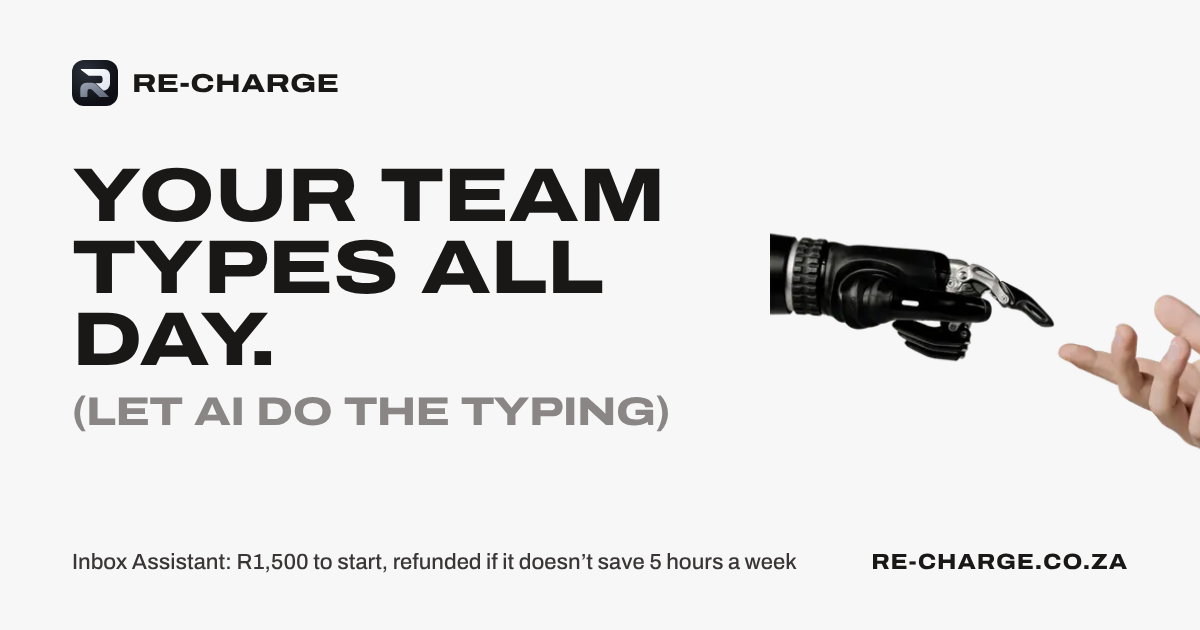
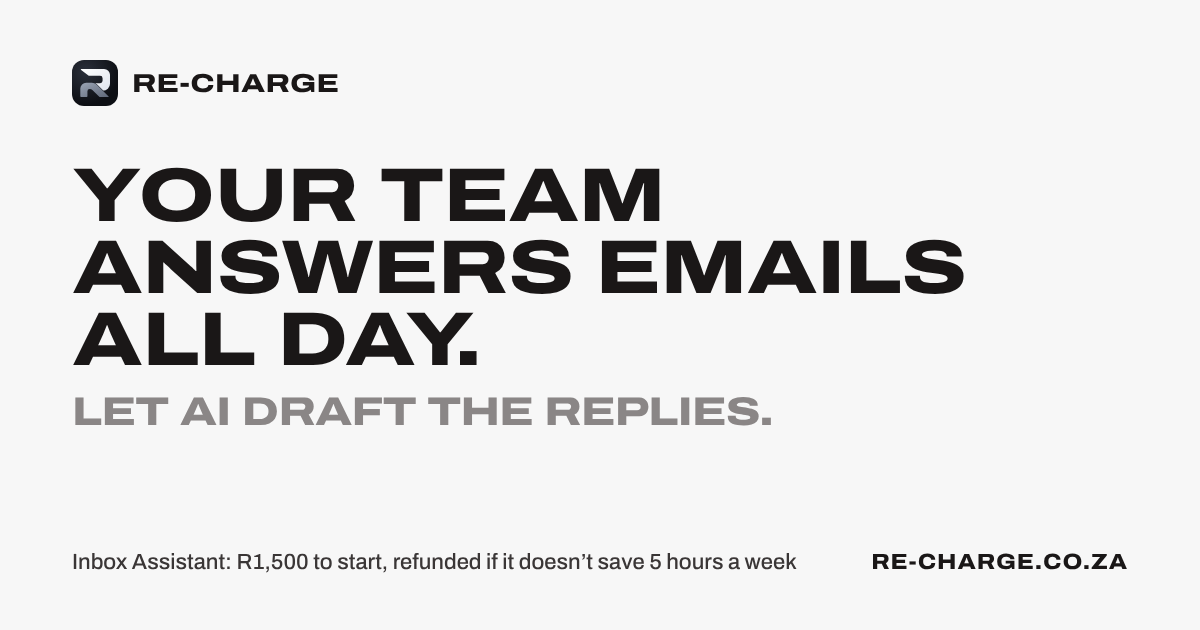
Homepage review fixes: new share image without the hands, no phone promise, CSS cleanups
- og-image.png re-rendered with the new headline (v=7)
- last slide: 'Thirty minutes on Google Meet.'
- unused nav CSS removed; footer dots no longer bold

Claude-Session: https://claude.ai/code/session_01M1NKcTwKaxVh1QCPGxnW1z

Changed region(s): [[0.0617, 0.3619, 1.0, 0.7238], [0.0617, 0.6333, 0.6475, 0.6937]]

diff --git a/index.html b/index.html
@@ -13,14 +13,14 @@
   <meta property="og:site_name" content="Re-Charge" />
   <meta property="og:title" content="Re-Charge | AI for the work that drains your team" />
   <meta property="og:description" content="AI drafts replies to your customer emails from your own prices and policies. Ready in 3 business days; R1,500 deposit, refunded if it doesn&rsquo;t save 5 hours a week." />
-  <meta property="og:image" content="https://re-charge.co.za/og-image.png?v=6" />
+  <meta property="og:image" content="https://re-charge.co.za/og-image.png?v=7" />
   <meta property="og:image:width" content="1200" />
   <meta property="og:image:height" content="630" />
   <meta property="og:locale" content="en_ZA" />
   <meta name="twitter:card" content="summary_large_image" />
   <meta name="twitter:title" content="Re-Charge | AI for the work that drains your team" />
   <meta name="twitter:description" content="AI drafts replies to your customer emails from your own prices and policies. Ready in 3 business days; R1,500 deposit, refunded if it doesn&rsquo;t save 5 hours a week." />
-  <meta name="twitter:image" content="https://re-charge.co.za/og-image.png?v=6" />
+  <meta name="twitter:image" content="https://re-charge.co.za/og-image.png?v=7" />
 
   <link rel="icon" type="image/png" sizes="32x32" href="assets/favicon-32.png?v=7" />
   <link rel="apple-touch-icon" href="assets/apple-touch-icon.png?v=7" />
@@ -30,7 +30,7 @@
   <link rel="preconnect" href="https://fonts.gstatic.com" crossorigin />
   <link rel="stylesheet" href="https://fonts.googleapis.com/css2?family=Archivo:wdth,wght@62..125,400..900&family=Inter:wght@400;500;600&family=Space+Grotesk:wght@500;600;700&family=JetBrains+Mono:wght@400;500;600&display=swap" media="print" onload="this.media=&#39;all&#39;" />
   <noscript><link rel="stylesheet" href="https://fonts.googleapis.com/css2?family=Archivo:wdth,wght@62..125,400..900&family=Inter:wght@400;500;600&family=Space+Grotesk:wght@500;600;700&family=JetBrains+Mono:wght@400;500;600&display=swap" /></noscript>
-  <link rel="stylesheet" href="styles.css?v=20261021a" />
+  <link rel="stylesheet" href="styles.css?v=20261026a" />
   <link rel="stylesheet" href="home.css?v=20261026b" />
 
   <script type="application/ld+json">
@@ -43,7 +43,7 @@
       "name": "Re-Charge",
       "url": "https://re-charge.co.za/",
       "logo": "https://re-charge.co.za/assets/logo-mark.png",
-      "image": "https://re-charge.co.za/og-image.png?v=6",
+      "image": "https://re-charge.co.za/og-image.png?v=7",
       "slogan": "AI for the work that drains your team.",
       "sameAs": [
         "https://www.linkedin.com/company/re-charge-ai"
@@ -356,7 +356,7 @@
         <h2 class="hp-deck__title" id="s8">Tell us what takes too long.</h2>
         <div class="hp-deck__low">
           <span class="hp-deck__arrow" aria-hidden="true">&#8600;</span>
-          <p class="hp-lead">Thirty minutes on Google Meet, or we can phone you. You tell us about the work; we tell you honestly whether AI is worth it, and roughly what it costs.</p>
+          <p class="hp-lead">Thirty minutes on Google Meet. You tell us about the work; we tell you honestly whether AI is worth it, and roughly what it costs.</p>
           <div class="hp-actions">
             <a class="hp-btn" href="https://calendar.app.google/58FYamh1ahXB4khM9" target="_blank" rel="noopener" data-track="cta-home-book-end">Book a free 30-minute call</a>
             <a class="hp-link" href="https://wa.me/27722375833?text=Hi%20Re-Charge%2C%20I%20saw%20your%20site%20and%20have%20a%20quick%20question." target="_blank" rel="noopener" data-track="cta-home-wa">WhatsApp 072 237 5833 &rarr;</a>

diff --git a/inbox-assistant.html b/inbox-assistant.html
@@ -13,14 +13,14 @@
   <meta property="og:site_name" content="Re-Charge" />
   <meta property="og:title" content="Inbox Assistant: AI Drafts Your Customer Email Replies | Re-Charge" />
   <meta property="og:description" content="Customer email replies drafted in seconds from your own prices and policies. R9,500 setup, R2,950/month. Start with a R1,500 deposit, refunded if it doesn&rsquo;t save 5 hours a week." />
-  <meta property="og:image" content="https://re-charge.co.za/og-image.png?v=6" />
+  <meta property="og:image" content="https://re-charge.co.za/og-image.png?v=7" />
   <meta property="og:image:width" content="1200" />
   <meta property="og:image:height" content="630" />
   <meta property="og:locale" content="en_ZA" />
   <meta name="twitter:card" content="summary_large_image" />
   <meta name="twitter:title" content="Inbox Assistant: AI Drafts Your Customer Email Replies | Re-Charge" />
   <meta name="twitter:description" content="Customer email replies drafted in seconds from your own prices and policies. R9,500 setup, R2,950/month. Start with a R1,500 deposit, refunded if it doesn&rsquo;t save 5 hours a week." />
-  <meta name="twitter:image" content="https://re-charge.co.za/og-image.png?v=6" />
+  <meta name="twitter:image" content="https://re-charge.co.za/og-image.png?v=7" />
 
   <link rel="icon" type="image/png" sizes="32x32" href="assets/favicon-32.png?v=7" />
   <link rel="apple-touch-icon" href="assets/apple-touch-icon.png?v=7" />
@@ -30,7 +30,7 @@
   <link rel="preconnect" href="https://fonts.gstatic.com" crossorigin />
   <link rel="stylesheet" href="https://fonts.googleapis.com/css2?family=Archivo:wdth,wght@62..125,400..900&family=Inter:wght@400;500;600&family=Space+Grotesk:wght@500;600;700&family=JetBrains+Mono:wght@400;500;600&display=swap" media="print" onload="this.media='all'" />
   <noscript><link rel="stylesheet" href="https://fonts.googleapis.com/css2?family=Archivo:wdth,wght@62..125,400..900&family=Inter:wght@400;500;600&family=Space+Grotesk:wght@500;600;700&family=JetBrains+Mono:wght@400;500;600&display=swap" /></noscript>
-  <link rel="stylesheet" href="styles.css?v=20261021a" />
+  <link rel="stylesheet" href="styles.css?v=20261026a" />
 
   <script type="application/ld+json">
 {

diff --git a/for-restaurants.html b/for-restaurants.html
@@ -13,14 +13,14 @@
   <meta property="og:site_name" content="Re-Charge" />
   <meta property="og:title" content="AI for Restaurants: Bookings and Questions Answered | Re-Charge" />
   <meta property="og:description" content="AI that answers your restaurant&rsquo;s WhatsApps and messages: table bookings, &ldquo;are you open?&rdquo;, menu questions and functions, in seconds, from your own menu." />
-  <meta property="og:image" content="https://re-charge.co.za/og-image.png?v=6" />
+  <meta property="og:image" content="https://re-charge.co.za/og-image.png?v=7" />
   <meta property="og:image:width" content="1200" />
   <meta property="og:image:height" content="630" />
   <meta property="og:locale" content="en_ZA" />
   <meta name="twitter:card" content="summary_large_image" />
   <meta name="twitter:title" content="AI for Restaurants: Bookings and Questions Answered | Re-Charge" />
   <meta name="twitter:description" content="AI that answers your restaurant&rsquo;s WhatsApps and messages: table bookings, &ldquo;are you open?&rdquo;, menu questions and functions, in seconds, from your own menu." />
-  <meta name="twitter:image" content="https://re-charge.co.za/og-image.png?v=6" />
+  <meta name="twitter:image" content="https://re-charge.co.za/og-image.png?v=7" />
 
   <link rel="icon" type="image/png" sizes="32x32" href="assets/favicon-32.png?v=7" />
   <link rel="apple-touch-icon" href="assets/apple-touch-icon.png?v=7" />
@@ -30,7 +30,7 @@
   <link rel="preconnect" href="https://fonts.gstatic.com" crossorigin />
   <link rel="stylesheet" href="https://fonts.googleapis.com/css2?family=Archivo:wdth,wght@62..125,400..900&family=Inter:wght@400;500;600&family=Space+Grotesk:wght@500;600;700&family=JetBrains+Mono:wght@400;500;600&display=swap" media="print" onload="this.media=&#39;all&#39;" />
   <noscript><link rel="stylesheet" href="https://fonts.googleapis.com/css2?family=Archivo:wdth,wght@62..125,400..900&family=Inter:wght@400;500;600&family=Space+Grotesk:wght@500;600;700&family=JetBrains+Mono:wght@400;500;600&display=swap" /></noscript>
-  <link rel="stylesheet" href="styles.css?v=20261021a" />
+  <link rel="stylesheet" href="styles.css?v=20261026a" />
 
   <script type="application/ld+json">
 {

diff --git a/for-cleaners.html b/for-cleaners.html
@@ -13,14 +13,14 @@
   <meta property="og:site_name" content="Re-Charge" />
   <meta property="og:title" content="AI for Cleaning Services: Quotes and Bookings Answered | Re-Charge" />
   <meta property="og:description" content="AI that answers your cleaning business&rsquo;s enquiries: &ldquo;how much for a 3-bedroom?&rdquo; quoted from your own rates, bookings offered, regulars rebooked." />
-  <meta property="og:image" content="https://re-charge.co.za/og-image.png?v=6" />
+  <meta property="og:image" content="https://re-charge.co.za/og-image.png?v=7" />
   <meta property="og:image:width" content="1200" />
   <meta property="og:image:height" content="630" />
   <meta property="og:locale" content="en_ZA" />
   <meta name="twitter:card" content="summary_large_image" />
   <meta name="twitter:title" content="AI for Cleaning Services: Quotes and Bookings Answered | Re-Charge" />
   <meta name="twitter:description" content="AI that answers your cleaning business&rsquo;s enquiries: &ldquo;how much for a 3-bedroom?&rdquo; quoted from your own rates, bookings offered, regulars rebooked." />
-  <meta name="twitter:image" content="https://re-charge.co.za/og-image.png?v=6" />
+  <meta name="twitter:image" content="https://re-charge.co.za/og-image.png?v=7" />
 
   <link rel="icon" type="image/png" sizes="32x32" href="assets/favicon-32.png?v=7" />
   <link rel="apple-touch-icon" href="assets/apple-touch-icon.png?v=7" />
@@ -30,7 +30,7 @@
   <link rel="preconnect" href="https://fonts.gstatic.com" crossorigin />
   <link rel="stylesheet" href="https://fonts.googleapis.com/css2?family=Archivo:wdth,wght@62..125,400..900&family=Inter:wght@400;500;600&family=Space+Grotesk:wght@500;600;700&family=JetBrains+Mono:wght@400;500;600&display=swap" media="print" onload="this.media=&#39;all&#39;" />
   <noscript><link rel="stylesheet" href="https://fonts.googleapis.com/css2?family=Archivo:wdth,wght@62..125,400..900&family=Inter:wght@400;500;600&family=Space+Grotesk:wght@500;600;700&family=JetBrains+Mono:wght@400;500;600&display=swap" /></noscript>
-  <link rel="stylesheet" href="styles.css?v=20261021a" />
+  <link rel="stylesheet" href="styles.css?v=20261026a" />
 
   <script type="application/ld+json">
 {

diff --git a/for-accountants.html b/for-accountants.html
@@ -13,14 +13,14 @@
   <meta property="og:site_name" content="Re-Charge" />
   <meta property="og:title" content="AI for Accounting Practices: Client Emails Drafted | Re-Charge" />
   <meta property="og:description" content="Client emails drafted from your own deadlines, document lists and fees; your team checks and sends. R1,500 deposit, refunded if it doesn&rsquo;t save 5 hours a week." />
-  <meta property="og:image" content="https://re-charge.co.za/og-image.png?v=6" />
+  <meta property="og:image" content="https://re-charge.co.za/og-image.png?v=7" />
   <meta property="og:image:width" content="1200" />
   <meta property="og:image:height" content="630" />
   <meta property="og:locale" content="en_ZA" />
   <meta name="twitter:card" content="summary_large_image" />
   <meta name="twitter:title" content="AI for Accounting Practices: Client Emails Drafted | Re-Charge" />
   <meta name="twitter:description" content="Client emails drafted from your own deadlines, document lists and fees; your team checks and sends. R1,500 deposit, refunded if it doesn&rsquo;t save 5 hours a week." />
-  <meta name="twitter:image" content="https://re-charge.co.za/og-image.png?v=6" />
+  <meta name="twitter:image" content="https://re-charge.co.za/og-image.png?v=7" />
 
   <link rel="icon" type="image/png" sizes="32x32" href="assets/favicon-32.png?v=7" />
   <link rel="apple-touch-icon" href="assets/apple-touch-icon.png?v=7" />
@@ -30,7 +30,7 @@
   <link rel="preconnect" href="https://fonts.gstatic.com" crossorigin />
   <link rel="stylesheet" href="https://fonts.googleapis.com/css2?family=Archivo:wdth,wght@62..125,400..900&family=Inter:wght@400;500;600&family=Space+Grotesk:wght@500;600;700&family=JetBrains+Mono:wght@400;500;600&display=swap" media="print" onload="this.media=&#39;all&#39;" />
   <noscript><link rel="stylesheet" href="https://fonts.googleapis.com/css2?family=Archivo:wdth,wght@62..125,400..900&family=Inter:wght@400;500;600&family=Space+Grotesk:wght@500;600;700&family=JetBrains+Mono:wght@400;500;600&display=swap" /></noscript>
-  <link rel="stylesheet" href="styles.css?v=20261021a" />
+  <link rel="stylesheet" href="styles.css?v=20261026a" />
 
   <script type="application/ld+json">
 {

diff --git a/for-salons.html b/for-salons.html
@@ -13,14 +13,14 @@
   <meta property="og:site_name" content="Re-Charge" />
   <meta property="og:title" content="AI for Salons: WhatsApp Bookings Answered | Re-Charge" />
   <meta property="og:description" content="AI that answers your salon&rsquo;s WhatsApp and website enquiries in seconds, from your own prices and open slots, while you&rsquo;re with a client. A person stays in charge." />
-  <meta property="og:image" content="https://re-charge.co.za/og-image.png?v=6" />
+  <meta property="og:image" content="https://re-charge.co.za/og-image.png?v=7" />
   <meta property="og:image:width" content="1200" />
   <meta property="og:image:height" content="630" />
   <meta property="og:locale" content="en_ZA" />
   <meta name="twitter:card" content="summary_large_image" />
   <meta name="twitter:title" content="AI for Salons: WhatsApp Bookings Answered | Re-Charge" />
   <meta name="twitter:description" content="AI that answers your salon&rsquo;s WhatsApp and website enquiries in seconds, from your own prices and open slots, while you&rsquo;re with a client. A person stays in charge." />
-  <meta name="twitter:image" content="https://re-charge.co.za/og-image.png?v=6" />
+  <meta name="twitter:image" content="https://re-charge.co.za/og-image.png?v=7" />
 
   <link rel="icon" type="image/png" sizes="32x32" href="assets/favicon-32.png?v=7" />
   <link rel="apple-touch-icon" href="assets/apple-touch-icon.png?v=7" />
@@ -30,7 +30,7 @@
   <link rel="preconnect" href="https://fonts.gstatic.com" crossorigin />
   <link rel="stylesheet" href="https://fonts.googleapis.com/css2?family=Archivo:wdth,wght@62..125,400..900&family=Inter:wght@400;500;600&family=Space+Grotesk:wght@500;600;700&family=JetBrains+Mono:wght@400;500;600&display=swap" media="print" onload="this.media=&#39;all&#39;" />
   <noscript><link rel="stylesheet" href="https://fonts.googleapis.com/css2?family=Archivo:wdth,wght@62..125,400..900&family=Inter:wght@400;500;600&family=Space+Grotesk:wght@500;600;700&family=JetBrains+Mono:wght@400;500;600&display=swap" /></noscript>
-  <link rel="stylesheet" href="styles.css?v=20261021a" />
+  <link rel="stylesheet" href="styles.css?v=20261026a" />
 
   <script type="application/ld+json">
 {

diff --git a/for-plumbers.html b/for-plumbers.html
@@ -13,14 +13,14 @@
   <meta property="og:site_name" content="Re-Charge" />
   <meta property="og:title" content="AI for Plumbers & Trades: No Missed Call Left Hanging | Re-Charge" />
   <meta property="og:description" content="Missed calls and WhatsApps followed up in seconds for plumbers, electricians and aircon businesses: jobs offered a slot, emergencies sent to the on-call person." />
-  <meta property="og:image" content="https://re-charge.co.za/og-image.png?v=6" />
+  <meta property="og:image" content="https://re-charge.co.za/og-image.png?v=7" />
   <meta property="og:image:width" content="1200" />
   <meta property="og:image:height" content="630" />
   <meta property="og:locale" content="en_ZA" />
   <meta name="twitter:card" content="summary_large_image" />
   <meta name="twitter:title" content="AI for Plumbers & Trades: No Missed Call Left Hanging | Re-Charge" />
   <meta name="twitter:description" content="Missed calls and WhatsApps followed up in seconds for plumbers, electricians and aircon businesses: jobs offered a slot, emergencies sent to the on-call person." />
-  <meta name="twitter:image" content="https://re-charge.co.za/og-image.png?v=6" />
+  <meta name="twitter:image" content="https://re-charge.co.za/og-image.png?v=7" />
 
   <link rel="icon" type="image/png" sizes="32x32" href="assets/favicon-32.png?v=7" />
   <link rel="apple-touch-icon" href="assets/apple-touch-icon.png?v=7" />
@@ -30,7 +30,7 @@
   <link rel="preconnect" href="https://fonts.gstatic.com" crossorigin />
   <link rel="stylesheet" href="https://fonts.googleapis.com/css2?family=Archivo:wdth,wght@62..125,400..900&family=Inter:wght@400;500;600&family=Space+Grotesk:wght@500;600;700&family=JetBrains+Mono:wght@400;500;600&display=swap" media="print" onload="this.media=&#39;all&#39;" />
   <noscript><link rel="stylesheet" href="https://fonts.googleapis.com/css2?family=Archivo:wdth,wght@62..125,400..900&family=Inter:wght@400;500;600&family=Space+Grotesk:wght@500;600;700&family=JetBrains+Mono:wght@400;500;600&display=swap" /></noscript>
-  <link rel="stylesheet" href="styles.css?v=20261021a" />
+  <link rel="stylesheet" href="styles.css?v=20261026a" />
 
   <script type="application/ld+json">
 {

diff --git a/pricing.html b/pricing.html
@@ -13,14 +13,14 @@
   <meta property="og:site_name" content="Re-Charge" />
   <meta property="og:title" content="Pricing: AI, Automation, Dashboards &amp; Websites | Re-Charge" />
   <meta property="og:description" content="Every price up front. Inbox Assistant R9,500 setup + R2,950/month, R1,500 deposit to start. Websites from R12,500, projects from R15,000, AI plans from R7,500/mo." />
-  <meta property="og:image" content="https://re-charge.co.za/og-image.png?v=6" />
+  <meta property="og:image" content="https://re-charge.co.za/og-image.png?v=7" />
   <meta property="og:image:width" content="1200" />
   <meta property="og:image:height" content="630" />
   <meta property="og:locale" content="en_ZA" />
   <meta name="twitter:card" content="summary_large_image" />
   <meta name="twitter:title" content="Pricing: AI, Automation, Dashboards &amp; Websites | Re-Charge" />
   <meta name="twitter:description" content="Every price up front. Inbox Assistant R9,500 setup + R2,950/month, R1,500 deposit to start. Websites from R12,500, projects from R15,000, AI plans from R7,500/mo." />
-  <meta name="twitter:image" content="https://re-charge.co.za/og-image.png?v=6" />
+  <meta name="twitter:image" content="https://re-charge.co.za/og-image.png?v=7" />
 
   <link rel="icon" type="image/png" sizes="32x32" href="assets/favicon-32.png?v=7" />
   <link rel="apple-touch-icon" href="assets/apple-touch-icon.png?v=7" />
@@ -30,7 +30,7 @@
   <link rel="preconnect" href="https://fonts.gstatic.com" crossorigin />
   <link rel="stylesheet" href="https://fonts.googleapis.com/css2?family=Archivo:wdth,wght@62..125,400..900&family=Inter:wght@400;500;600&family=Space+Grotesk:wght@500;600;700&family=JetBrains+Mono:wght@400;500;600&display=swap" media="print" onload="this.media=&#39;all&#39;" />
   <noscript><link rel="stylesheet" href="https://fonts.googleapis.com/css2?family=Archivo:wdth,wght@62..125,400..900&family=Inter:wght@400;500;600&family=Space+Grotesk:wght@500;600;700&family=JetBrains+Mono:wght@400;500;600&display=swap" /></noscript>
-  <link rel="stylesheet" href="styles.css?v=20261021a" />
+  <link rel="stylesheet" href="styles.css?v=20261026a" />
 
   <script type="application/ld+json">
 {

diff --git a/ai-for-business.html b/ai-for-business.html
@@ -13,14 +13,14 @@
   <meta property="og:site_name" content="Re-Charge" />
   <meta property="og:title" content="AI for Enquiries, Documents &amp; Data Entry | Re-Charge" />
   <meta property="og:description" content="AI for the repetitive work: customer emails and enquiries, quotes, invoice capture, data entry between systems, reports and staff questions. Measured before and after." />
-  <meta property="og:image" content="https://re-charge.co.za/og-image.png?v=6" />
+  <meta property="og:image" content="https://re-charge.co.za/og-image.png?v=7" />
   <meta property="og:image:width" content="1200" />
   <meta property="og:image:height" content="630" />
   <meta property="og:locale" content="en_ZA" />
   <meta name="twitter:card" content="summary_large_image" />
   <meta name="twitter:title" content="AI for Enquiries, Documents &amp; Data Entry | Re-Charge" />
   <meta name="twitter:description" content="AI for the repetitive work: customer emails and enquiries, quotes, invoice capture, data entry between systems, reports and staff questions. Measured before and after." />
-  <meta name="twitter:image" content="https://re-charge.co.za/og-image.png?v=6" />
+  <meta name="twitter:image" content="https://re-charge.co.za/og-image.png?v=7" />
 
   <link rel="icon" type="image/png" sizes="32x32" href="assets/favicon-32.png?v=7" />
   <link rel="apple-touch-icon" href="assets/apple-touch-icon.png?v=7" />
@@ -30,7 +30,7 @@
   <link rel="preconnect" href="https://fonts.gstatic.com" crossorigin />
   <link rel="stylesheet" href="https://fonts.googleapis.com/css2?family=Archivo:wdth,wght@62..125,400..900&family=Inter:wght@400;500;600&family=Space+Grotesk:wght@500;600;700&family=JetBrains+Mono:wght@400;500;600&display=swap" media="print" onload="this.media='all'" />
   <noscript><link rel="stylesheet" href="https://fonts.googleapis.com/css2?family=Archivo:wdth,wght@62..125,400..900&family=Inter:wght@400;500;600&family=Space+Grotesk:wght@500;600;700&family=JetBrains+Mono:wght@400;500;600&display=swap" /></noscript>
-  <link rel="stylesheet" href="styles.css?v=20261021a" />
+  <link rel="stylesheet" href="styles.css?v=20261026a" />
 
   <script type="application/ld+json">
 {

diff --git a/services.html b/services.html
@@ -13,14 +13,14 @@
   <meta property="og:site_name" content="Re-Charge" />
   <meta property="og:title" content="Websites, Dashboards &amp; Custom Software | Re-Charge" />
   <meta property="og:description" content="Business websites from R12,500, dashboards and automations from R15,000, AI solutions from R25,000 and custom software from R45,000. A fixed proposal before you pay." />
-  <meta property="og:image" content="https://re-charge.co.za/og-image.png?v=6" />
+  <meta property="og:image" content="https://re-charge.co.za/og-image.png?v=7" />
   <meta property="og:image:width" content="1200" />
   <meta property="og:image:height" content="630" />
   <meta property="og:locale" content="en_ZA" />
   <meta name="twitter:card" content="summary_large_image" />
   <meta name="twitter:title" content="Websites, Dashboards &amp; Custom Software | Re-Charge" />
   <meta name="twitter:description" content="Business websites from R12,500, dashboards and automations from R15,000, AI solutions from R25,000 and custom software from R45,000. A fixed proposal before you pay." />
-  <meta name="twitter:image" content="https://re-charge.co.za/og-image.png?v=6" />
+  <meta name="twitter:image" content="https://re-charge.co.za/og-image.png?v=7" />
 
   <link rel="icon" type="image/png" sizes="32x32" href="assets/favicon-32.png?v=7" />
   <link rel="apple-touch-icon" href="assets/apple-touch-icon.png?v=7" />
@@ -30,7 +30,7 @@
   <link rel="preconnect" href="https://fonts.gstatic.com" crossorigin />
   <link rel="stylesheet" href="https://fonts.googleapis.com/css2?family=Archivo:wdth,wght@62..125,400..900&family=Inter:wght@400;500;600&family=Space+Grotesk:wght@500;600;700&family=JetBrains+Mono:wght@400;500;600&display=swap" media="print" onload="this.media=&#39;all&#39;" />
   <noscript><link rel="stylesheet" href="https://fonts.googleapis.com/css2?family=Archivo:wdth,wght@62..125,400..900&family=Inter:wght@400;500;600&family=Space+Grotesk:wght@500;600;700&family=JetBrains+Mono:wght@400;500;600&display=swap" /></noscript>
-  <link rel="stylesheet" href="styles.css?v=20261021a" />
+  <link rel="stylesheet" href="styles.css?v=20261026a" />
 
   <script type="application/ld+json">
 {

diff --git a/ai-demos.html b/ai-demos.html
@@ -13,14 +13,14 @@
   <meta property="og:site_name" content="Re-Charge" />
   <meta property="og:title" content="AI Examples You Can Try | Re-Charge" />
   <meta property="og:description" content="Working examples you can try: an inbox sorted and drafted, invoices captured, missed calls followed up, answers from documents, meeting notes and more. Each says who it&rsquo;s for." />
-  <meta property="og:image" content="https://re-charge.co.za/og-image.png?v=6" />
+  <meta property="og:image" content="https://re-charge.co.za/og-image.png?v=7" />
   <meta property="og:image:width" content="1200" />
   <meta property="og:image:height" content="630" />
   <meta property="og:locale" content="en_ZA" />
   <meta name="twitter:card" content="summary_large_image" />
   <meta name="twitter:title" content="AI Examples You Can Try | Re-Charge" />
   <meta name="twitter:description" content="Working examples you can try: an inbox sorted and drafted, invoices captured, missed calls followed up, answers from documents, meeting notes and more. Each says who it&rsquo;s for." />
-  <meta name="twitter:image" content="https://re-charge.co.za/og-image.png?v=6" />
+  <meta name="twitter:image" content="https://re-charge.co.za/og-image.png?v=7" />
 
   <link rel="icon" type="image/png" sizes="32x32" href="assets/favicon-32.png?v=7" />
   <link rel="apple-touch-icon" href="assets/apple-touch-icon.png?v=7" />
@@ -30,7 +30,7 @@
   <link rel="preconnect" href="https://fonts.gstatic.com" crossorigin />
   <link rel="stylesheet" href="https://fonts.googleapis.com/css2?family=Archivo:wdth,wght@62..125,400..900&family=Inter:wght@400;500;600&family=Space+Grotesk:wght@500;600;700&family=JetBrains+Mono:wght@400;500;600&display=swap" media="print" onload="this.media=&#39;all&#39;" />
   <noscript><link rel="stylesheet" href="https://fonts.googleapis.com/css2?family=Archivo:wdth,wght@62..125,400..900&family=Inter:wght@400;500;600&family=Space+Grotesk:wght@500;600;700&family=JetBrains+Mono:wght@400;500;600&display=swap" /></noscript>
-  <link rel="stylesheet" href="styles.css?v=20261021a" />
+  <link rel="stylesheet" href="styles.css?v=20261026a" />
 
   <script type="application/ld+json">
 {

diff --git a/demos.html b/demos.html
@@ -13,14 +13,14 @@
   <meta property="og:site_name" content="Re-Charge" />
   <meta property="og:title" content="Live Demos: AI, Dashboards &amp; Tools | Re-Charge" />
   <meta property="og:description" content="Click and try working demos: a quote calculator, a booking system, a sales dashboard and an AI assistant, built for South African businesses." />
-  <meta property="og:image" content="https://re-charge.co.za/og-image.png?v=6" />
+  <meta property="og:image" content="https://re-charge.co.za/og-image.png?v=7" />
   <meta property="og:image:width" content="1200" />
   <meta property="og:image:height" content="630" />
   <meta property="og:locale" content="en_ZA" />
   <meta name="twitter:card" content="summary_large_image" />
   <meta name="twitter:title" content="Live Demos: AI, Dashboards &amp; Tools | Re-Charge" />
   <meta name="twitter:description" content="Click and try working demos: a quote calculator, a booking system, a sales dashboard and an AI assistant, built for South African businesses." />
-  <meta name="twitter:image" content="https://re-charge.co.za/og-image.png?v=6" />
+  <meta name="twitter:image" content="https://re-charge.co.za/og-image.png?v=7" />
 
   <link rel="icon" type="image/png" sizes="32x32" href="assets/favicon-32.png?v=7" />
   <link rel="apple-touch-icon" href="assets/apple-touch-icon.png?v=7" />
@@ -30,7 +30,7 @@
   <link rel="preconnect" href="https://fonts.gstatic.com" crossorigin />
   <link rel="stylesheet" href="https://fonts.googleapis.com/css2?family=Archivo:wdth,wght@62..125,400..900&family=Inter:wght@400;500;600&family=Space+Grotesk:wght@500;600;700&family=JetBrains+Mono:wght@400;500;600&display=swap" media="print" onload="this.media=&#39;all&#39;" />
   <noscript><link rel="stylesheet" href="https://fonts.googleapis.com/css2?family=Archivo:wdth,wght@62..125,400..900&family=Inter:wght@400;500;600&family=Space+Grotesk:wght@500;600;700&family=JetBrains+Mono:wght@400;500;600&display=swap" /></noscript>
-  <link rel="stylesheet" href="styles.css?v=20261021a" />
+  <link rel="stylesheet" href="styles.css?v=20261026a" />
   <script type="application/ld+json">
   {
     "@context": "https://schema.org",
